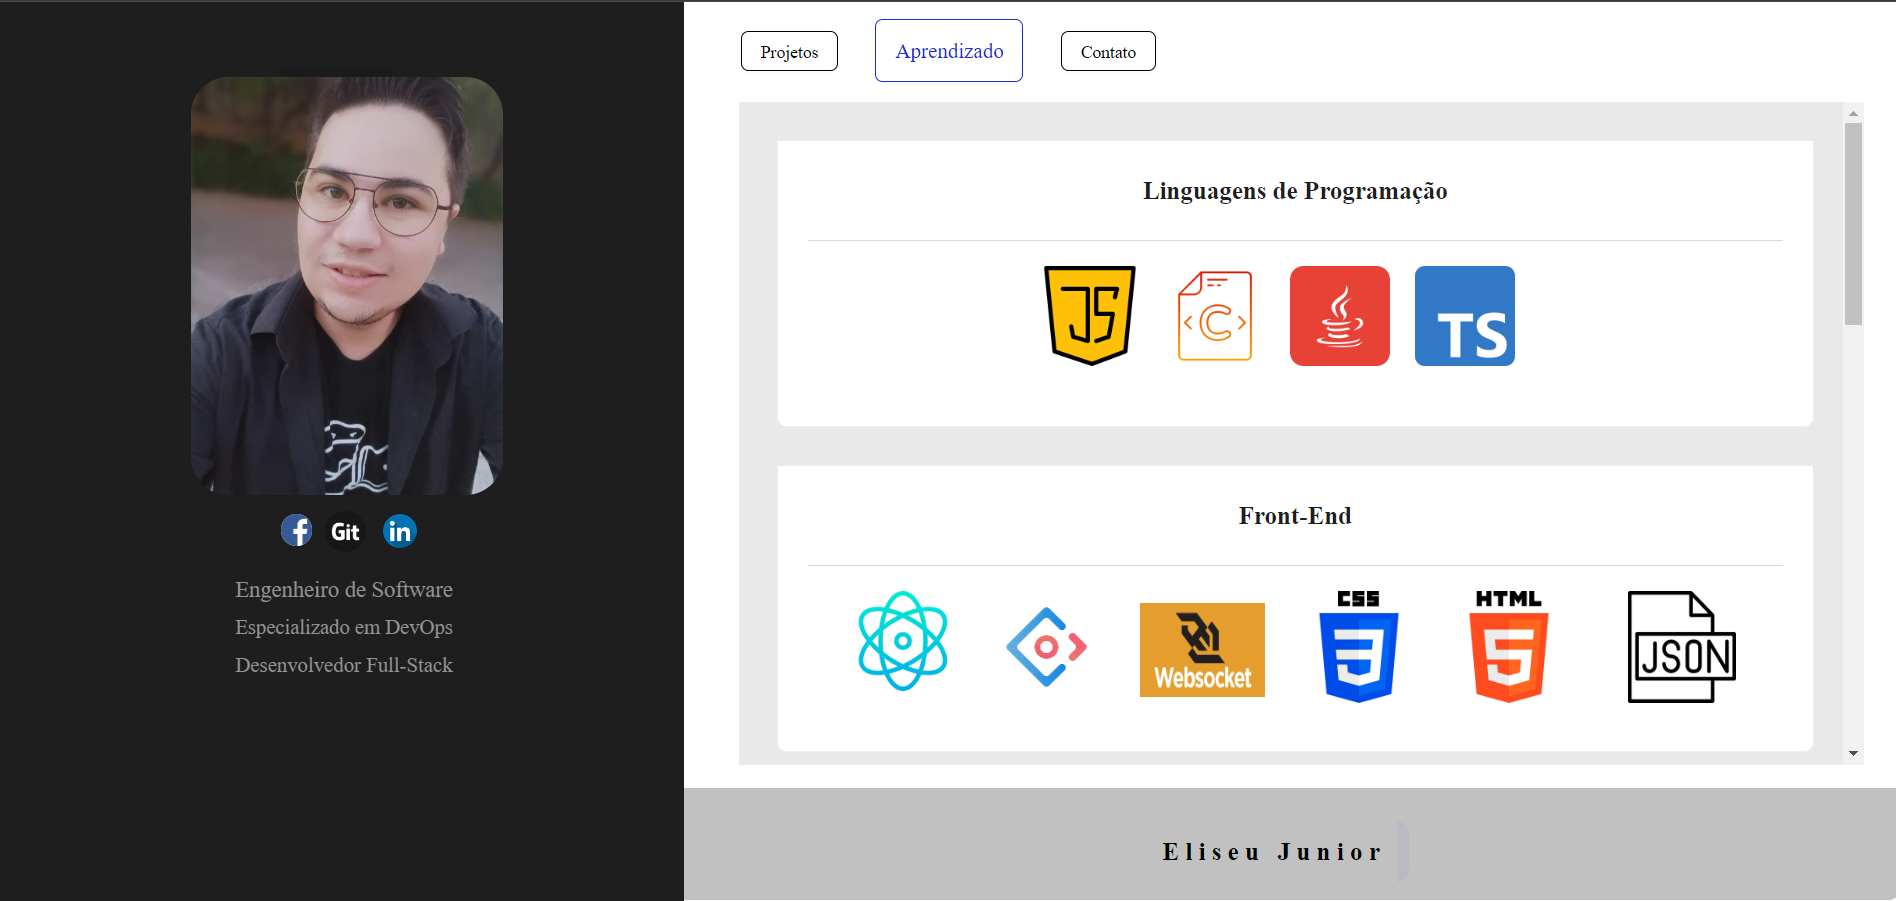
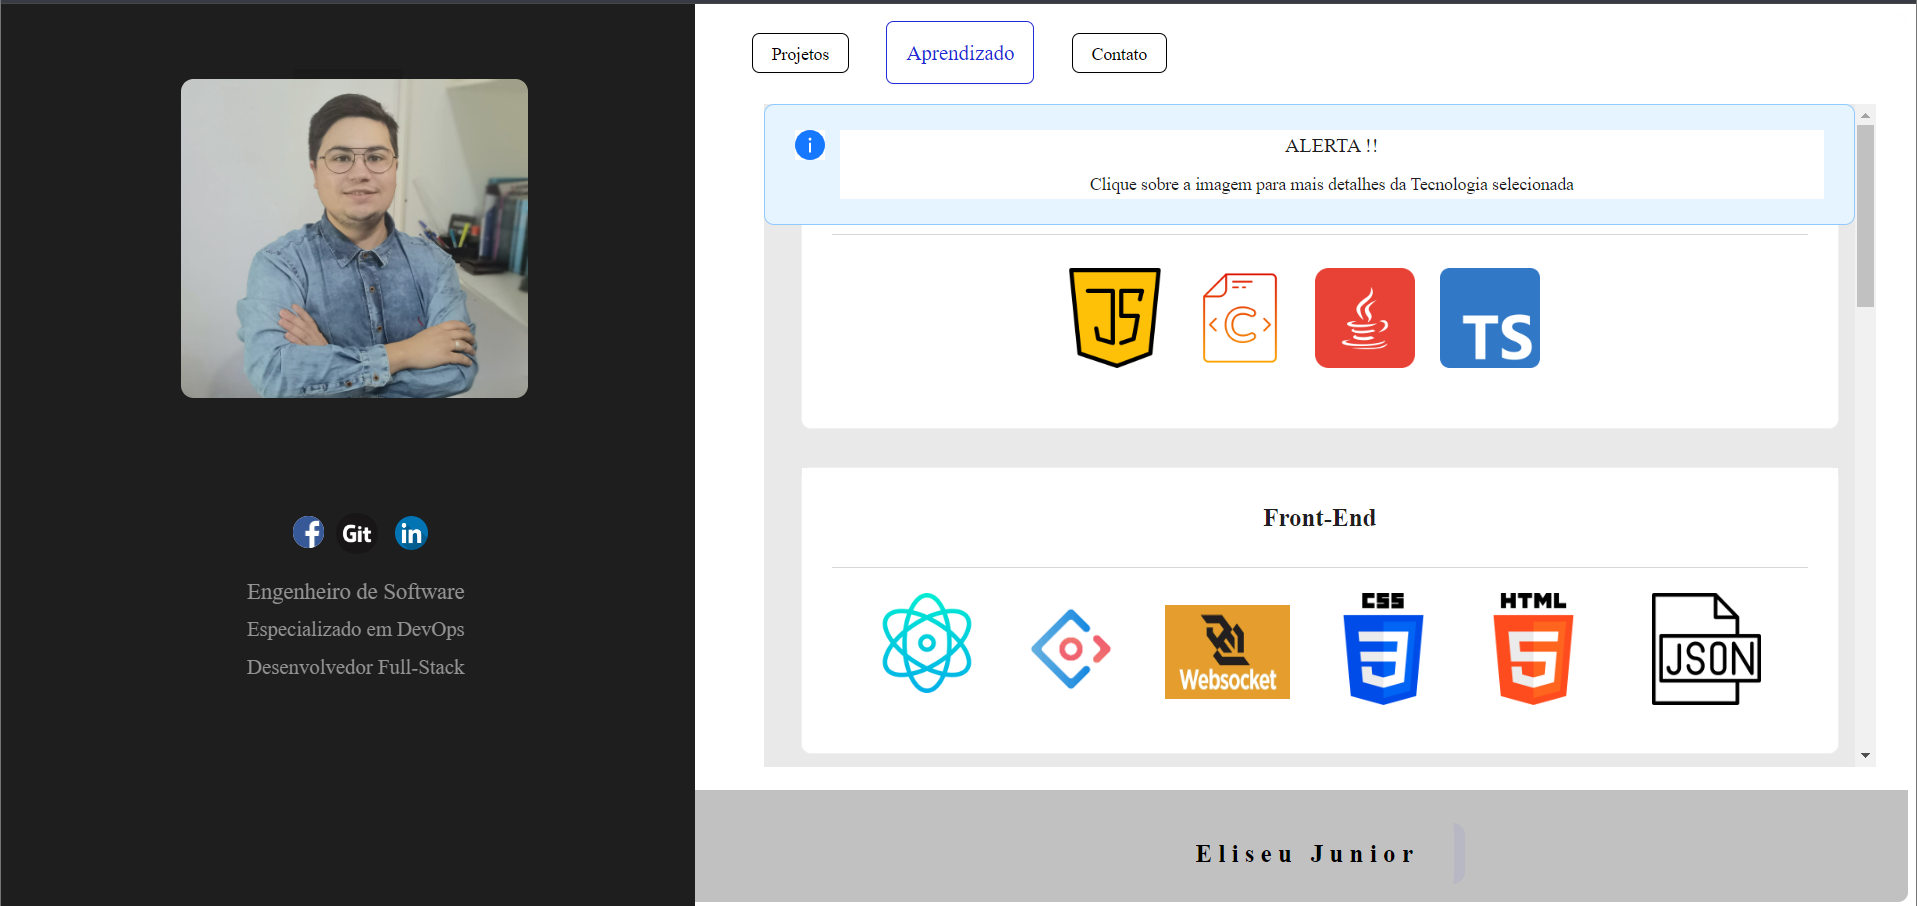
update mobile 1.11

diff --git a/src/componentes/templates/Header.css b/src/componentes/templates/Header.css
@@ -9,17 +9,7 @@
     background-color: rgb(30, 30, 30);
     color: aliceblue;
 }
-#Logo1 {
-    position: absolute;
-    left: 26%;
-    top: 5%;
-    margin: 0;
-    padding: 0;
 
-    background-color: black;
-    /* border-radius: 5px; */
-
-    }
   .nameOne{
     position: relative;
     font-size: 18px;
@@ -84,10 +74,11 @@
  
     .logo1{
       position:absolute;
-      left: 29%;
+      left: 26%;
       top: 60px;
-      width: 45%;
-      border-Radius: 30px;
+      width: 50%;
+      height: 35%;
+      border-Radius: 10px;
       opacity: 88%;
     }
     @media (max-width:1470px){
@@ -107,6 +98,15 @@
       top: 420px
 
      }
+     .logo1{
+      position:absolute;
+      left: 26%;
+      top: 60px;
+      width: 50%;
+      height: 30%;
+      border-Radius: 10px;
+      opacity: 88%;
+    }
 
     }
     @media (max-width:1235px){
@@ -128,6 +128,15 @@
       top: 370px
 
 
+    }
+    .logo1{
+      position:absolute;
+      left: 26%;
+      top: 60px;
+      width: 50%;
+      height: 30%;
+      border-Radius: 10px;
+      opacity: 88%;
     }
     }
     @media (max-width:980px){
@@ -152,6 +161,15 @@
    
    
        }
+       .logo1{
+        position:absolute;
+        left: 26%;
+        top: 60px;
+        width: 50%;
+        height: 25%;
+        border-Radius: 10px;
+        opacity: 88%;
+      }
     }
     @media (max-width:909px){
       #icon_facebook, #Git_icon, #icon_linkedin{
@@ -176,6 +194,15 @@
    
    
        }
+       .logo1{
+        position:absolute;
+        left: 26%;
+        top: 60px;
+        width: 50%;
+        height: 24%;
+        border-Radius: 10px;
+        opacity: 88%;
+      }
   }
  
   @media (max-width:784px){
@@ -183,24 +210,34 @@
       top: 190px;
     }
     .nameOne{
-      left: 52px;
+      left: 72px;
       top: 210px ;
       font-size: 8px;
 
      }
      .nameTwo{
-       left: 55px;
+       left: 72px;
        top: 230px;
        font-size: 8px;
 
      }
      .nameTree{
-       left: 55px;
+       left: 72px;
        font-size: 8px;
        top: 250px
  
  
+       
      }
+     .logo1{
+      position:absolute;
+      left: 26%;
+      top: 60px;
+      width: 50%;
+      height: 20%;
+      border-Radius: 10px;
+      opacity: 88%;
+    }
 }
 
 @media (max-width:626px){
@@ -210,20 +247,25 @@
       z-index: 9;
       
   }
-  #icon_facebook, #Git_icon, #icon_linkedin{
-    top: 380px;
-left: -160px;
+  #icon_facebook, #Git_icon{
+    top: 300px;
+left: -140px;
 margin-right: 20px;
+}
+#icon_linkedin{
+  top: 302px;
+  left: -140px;
+  margin-right: 20px;
 }
   .nameOne{
     left:5px;
-    top: 420px ;
+    top: 320px ;
     font-size: 16px;
 
    }
    .nameTwo{
      left: 5px;
-     top: 450px;
+     top: 350px;
      font-size: 16px;
      z-index: 9;
 
@@ -231,11 +273,17 @@ margin-right: 20px;
    .nameTree{
      left: 5px;
      font-size: 16px;
-     top: 480px;
+     top: 380px;
 z-index: 9;
 
    }
-.logo1{
-  left: 1%;
-} 
+   .logo1{
+    position:absolute;
+    left: 3%;
+    top: 60px;
+    width: 45%;
+    height: 38%;
+    border-Radius: 10px;
+    opacity: 88%;
+  } 
 }

diff --git a/src/componentes/templates/Header.jsx b/src/componentes/templates/Header.jsx
@@ -11,7 +11,7 @@ export default (props) => (
     <img
       className="logo1"
       src={Logo1}
-      width={230}
+      width={"50%"}
     />
     <div className="nameOne">Engenheiro de Software</div>
     <div className="nameTwo">Desenvolvedor Full-Stack</div>

diff --git a/src/componentes/templates/Apresentacao.css b/src/componentes/templates/Apresentacao.css
@@ -67,7 +67,7 @@ left: 70px;
 @media (max-width:626px){
     .apresentação{
    background-color:  rgb(30, 30, 30);
-   left: -180px;
+   left: -210px;
    z-index: 9;
     }
    

diff --git a/src/pages/Home.jsx b/src/pages/Home.jsx
@@ -1,8 +1,7 @@
-<<<<<<< HEAD
-=======
+
 // import React from "react";
 
 // export default props=>
 
 {/* <div><h1> Home </h1></div> */}
->>>>>>> origin/main
+
